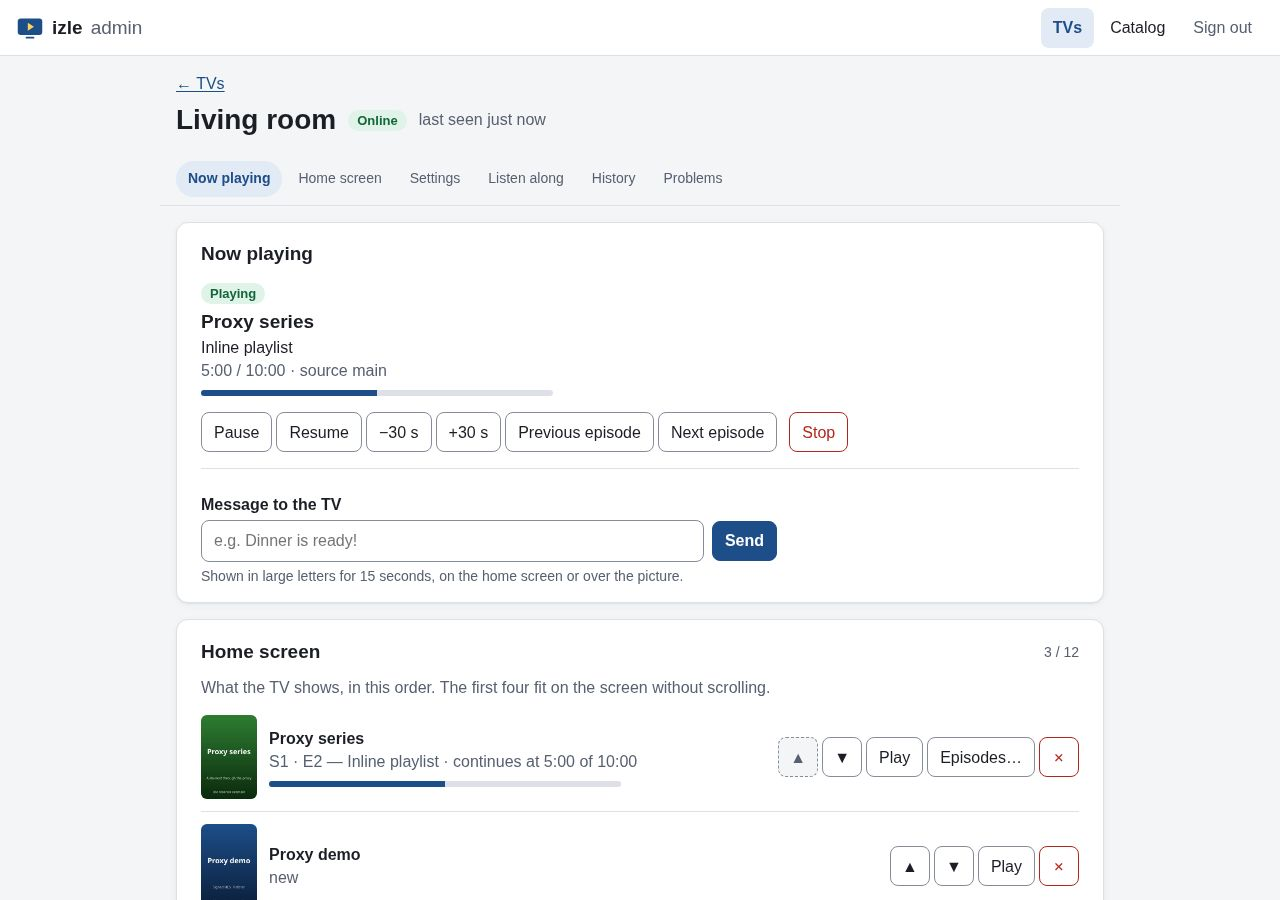
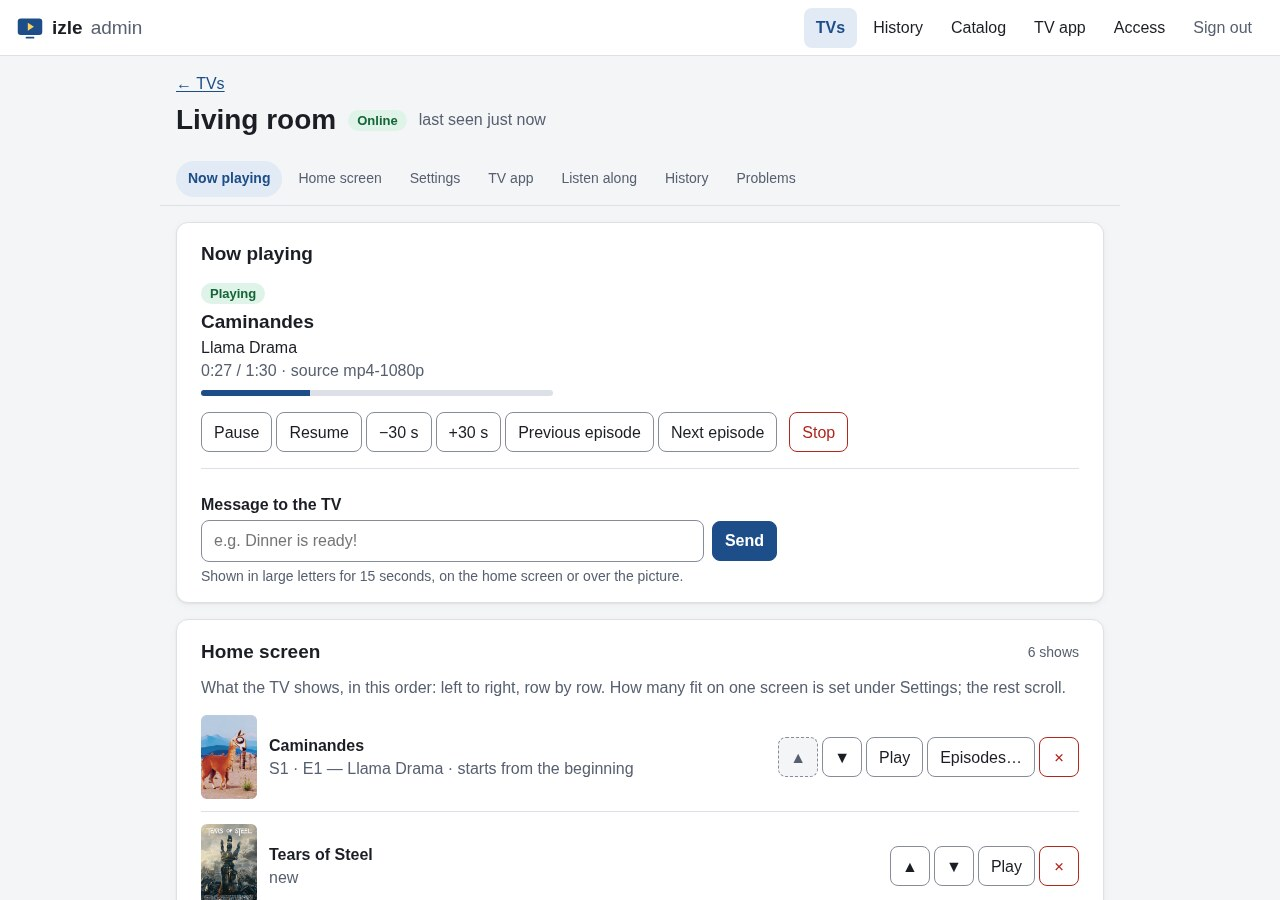
Site and README: share card and admin TV page show the new Home grid
The share card's TV shows the landscape card grid; the admin screenshot shows the Home screen card's plain count and grid hint; og:image:alt follows.

diff --git a/site/index.html b/site/index.html
@@ -15,7 +15,7 @@
   <meta property="og:image" content="https://mickeiik.github.io/izle/share-card.jpg">
   <meta property="og:image:width" content="1280">
   <meta property="og:image:height" content="640">
-  <meta property="og:image:alt" content="izle: Switch on. Press OK. It plays. Next to the TV's home screen of big posters and a remote with an OK button.">
+  <meta property="og:image:alt" content="izle: Switch on. Press OK. It plays. Next to the TV's home screen of wide show cards and a remote with an OK button.">
   <meta name="twitter:card" content="summary_large_image">
   <link rel="icon" href="icon.svg" type="image/svg+xml">
   <link rel="stylesheet" href="style.css">
